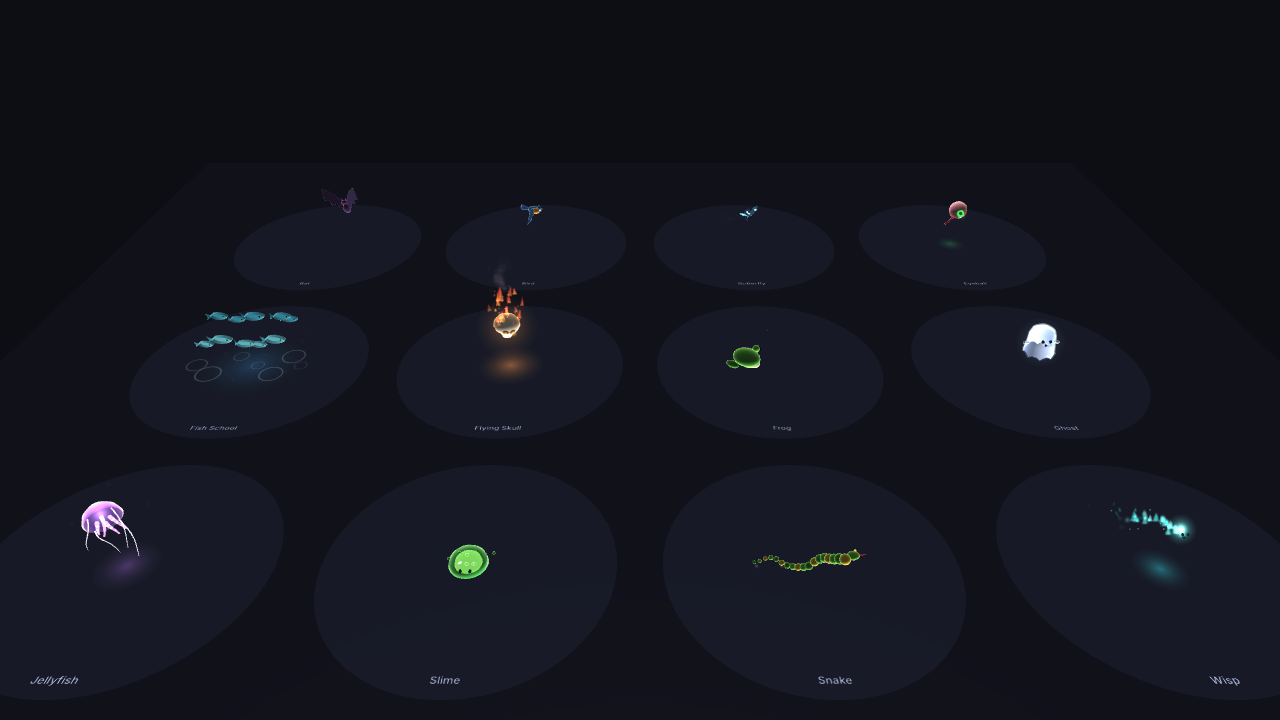
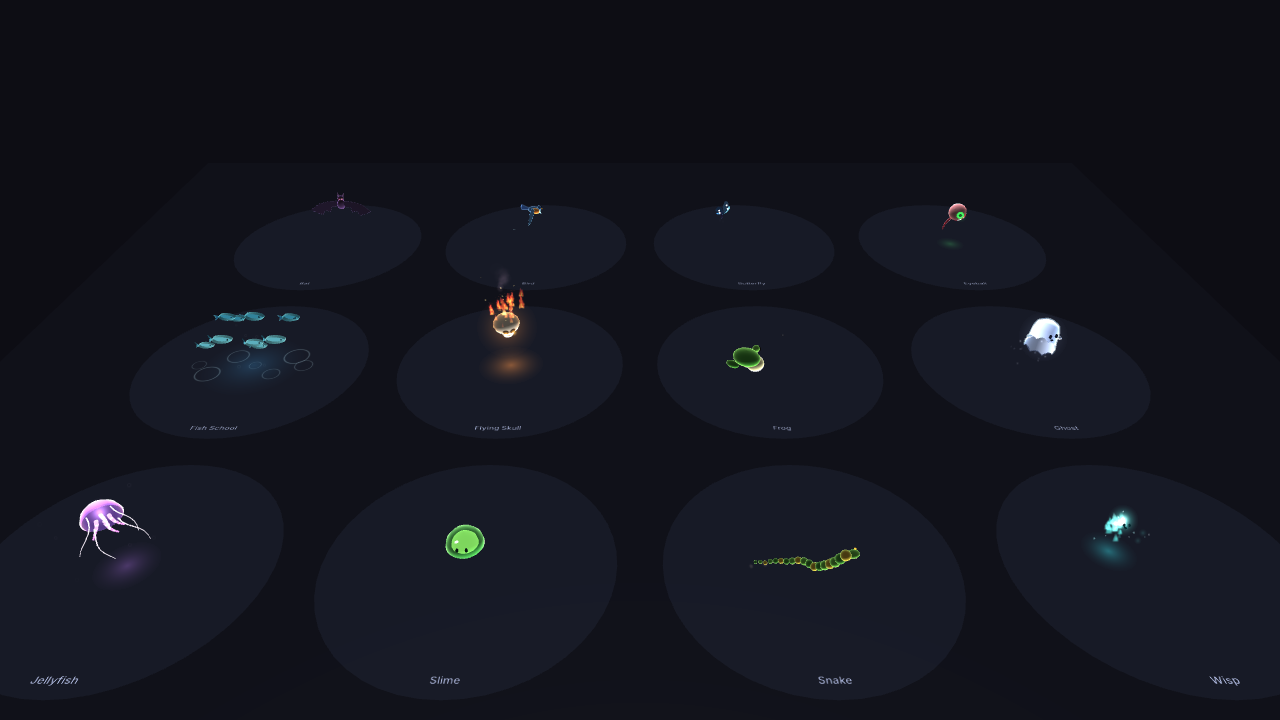
examples(pixelfx): fix review findings in the new categories
- Iris and star iris erode a screen-sized cover out of a distance mask instead of
  scaling frames that reached hundreds of metres and hid the whole gallery.
- Critter shadows take the cell's offset out of the world position they follow.
- Rising motes and bubbles use a narrow cone; floor rings drop the aim that
  cancelled their flat rotation.
- Slime droplets simulate in world space and the splat replays every loop.
- The meteor's smoke, the glitch slivers and the frog fly's glint stop when
  their source is gone; fliers are marked teleported when a loop restarts.
- Ground pound and the rocket's target turn whole turns instead of snapping;
  the plasma orb loops on whole cycles.

Claude-Session: https://claude.ai/code/session_01HtcrPuxAiPNH1fZ2MwUefJ

diff --git a/examples/src/pixelfx/transitions.ts b/examples/src/pixelfx/transitions.ts
@@ -336,19 +336,70 @@ function windowed(period: number, t0: number, t1: number, fade = 0.05): Array<[n
     return keys;
 }
 
-/** A nested pair of frames round a hole of `points`, scaled together so the hole can shut to a dot. */
-function iris(fx: FxBuilder, node: TransformNode, points: Array<[number, number]>, period: number, color = COVER) {
-    solid(fx, node, holeFrame(points, 24), color, {life: period, lit: false, order: 6});
-    solid(
-        fx,
-        node,
-        holeFrame(
-            points.map(([x, y]) => [x * 23.5, y * 23.5] as [number, number]),
-            30
-        ),
-        color,
-        {life: period, lit: false, order: 6}
-    );
+/** Distance from the origin to (x, y) in units of the closed outline `points` along that ray: 1 on the outline. */
+function shapeDistance(points: Array<[number, number]>): (x: number, y: number) => number {
+    return (x, y) => {
+        const rho = Math.hypot(x, y);
+        if (rho < 1e-9) return 0;
+        const dx = x / rho;
+        const dy = y / rho;
+        let reach = Infinity;
+        for (let i = 0; i < points.length; i++) {
+            const [ax, ay] = points[i];
+            const [bx, by] = points[(i + 1) % points.length];
+            const ex = bx - ax;
+            const ey = by - ay;
+            const den = dx * ey - dy * ex;
+            if (Math.abs(den) < 1e-12) continue;
+            const along = (ax * ey - ay * ex) / den;
+            const k = (ax * dy - ay * dx) / den;
+            if (along > 0 && k >= 0 && k <= 1) reach = Math.min(reach, along);
+        }
+        return reach === Infinity ? 0 : rho / reach;
+    };
+}
+
+/**
+ * The screen as one quad with a hole of `points` round `center`, `radius(t)` across, eroded out of
+ * a distance mask. Unlike a frame scaled with its hole, it never reaches past the screen.
+ */
+function irisCover(
+    fx: FxBuilder,
+    key: string,
+    center: At,
+    points: Array<[number, number]>,
+    period: number,
+    radius: (t: number) => number,
+    edge: [number, number, number]
+) {
+    const dist = shapeDistance(points);
+    const dx = center[0] - S[0];
+    const dy = center[1] - S[1];
+    let far = 0;
+    for (let i = 0; i <= 64; i++) {
+        const k = i / 64;
+        for (const [u, v] of [
+            [k, 0],
+            [k, 1],
+            [0, k],
+            [1, k],
+        ]) {
+            far = Math.max(far, dist((u - 0.5) * W - dx, (0.5 - v) * H - dy));
+        }
+    }
+    const alphas: Array<[number, number]> = [];
+    for (let i = 0; i <= 80; i++) {
+        const u = i / 80;
+        alphas.push([clamp01(1 - radius(u * period) / far), u]);
+    }
+    erodingCover(fx, {
+        period,
+        mask: mask(fx.scene, key, (u, v) => dist((u - 0.5) * W - dx, (0.5 - v) * H - dy) / far),
+        alphas,
+        edge,
+        edgeWidth: 0.015,
+        softness: 0.004,
+    });
 }
 
 export const transitions: FxDef[] = [
@@ -693,8 +744,8 @@ export const transitions: FxDef[] = [
                 });
                 return {node, i, lag: hash(i) * 0.35, freeze: hash(i + 9)};
             });
-            // Data slivers spat off the torn edges.
-            fx.sys({
+            // Data slivers spat off the torn edges, while there are edges on screen.
+            const slivers = fx.sys({
                 tex: 'white',
                 mode: RenderMode.StretchedBillBoard,
                 stretch: {speed: 0.06, length: 3},
@@ -709,6 +760,7 @@ export const transitions: FxDef[] = [
                 order: 9,
                 b: [tint([['#ffffff', 0]], popOut(0.4))],
             });
+            gate(slivers, P, 0.05, 1.75, 80);
             fx.every((t) => {
                 for (const b of bands) {
                     // In from the left in stutters, freezing and jerking back; then on through.
@@ -736,8 +788,18 @@ export const transitions: FxDef[] = [
             const P = 2.2;
             backdrop(fx, P);
             const C: At = [0, 1.6, S[2]];
+            const SHUT = 1.25;
+            const OPEN = 1.45;
+            // Closes onto the hero's head, holds as a spotlight, snaps shut, pops open.
+            const radius = (t: number) => {
+                if (t < 0.45) return 6 - 5.4 * easeOut(span(t, 0, 0.45));
+                if (t < 1.05) return 0.6 - 0.05 * Math.sin((t - 0.45) * 8);
+                if (t < SHUT) return 0.6 * (1 - easeIn(span(t, 1.05, SHUT)));
+                if (t < OPEN) return 0;
+                return 6 * easeOut(span(t, OPEN, P));
+            };
+            irisCover(fx, 'iris-circle', C, circle(1), P, radius, [1.6, 1.4, 1]);
             const ap = fx.node('iris', C);
-            iris(fx, ap, circle(1), P);
             const rim = fx.node('rim', [0, 0, 0.02], ap);
             solid(fx, rim, holeFrame(circle(0.98), 1.05), SPOT[6], {life: P, blend: 'add', lit: false});
             // The spotlight's dust.
@@ -766,8 +828,6 @@ export const transitions: FxDef[] = [
                 b: [tint([['#ffffff', 0]], popOut(0.5))],
             });
             gate(tw, P, 0.5, 1.1, 12);
-            const SHUT = 1.25;
-            const OPEN = 1.45;
             flash(fx, {at: [C[0], C[1], C[2] + 0.2], size: 1, time: SHUT, color: '#ffffff', life: 0.2});
             flash(fx, {at: [C[0], C[1], C[2] + 0.2], size: 3, time: OPEN, color: SPOT[6]});
             fx.sys({
@@ -785,15 +845,9 @@ export const transitions: FxDef[] = [
                 b: [gravity(4), tint([['#ffffff', 0]], popOut(0.4))],
             });
             fx.every((t) => {
-                // Closes onto the hero's head, holds as a spotlight, snaps shut, pops open.
-                let r: number;
-                if (t < 0.45) r = 6 - 5.4 * easeOut(span(t, 0, 0.45));
-                else if (t < 1.05) r = 0.6 - 0.05 * Math.sin((t - 0.45) * 8);
-                else if (t < SHUT) r = 0.6 * (1 - easeIn(span(t, 1.05, SHUT)));
-                else if (t < OPEN) r = 0;
-                else r = 6 * easeOut(span(t, OPEN, P));
-                ap.scaling.setAll(Math.max(0.004, r));
-                ap.rotation.z = t * 0.3;
+                // The rim rides the hole while it is on screen.
+                const r = radius(t);
+                ap.scaling.setAll(r > 1.2 ? HIDE : Math.max(0.004, r));
             });
         },
     },
@@ -1088,9 +1142,18 @@ export const transitions: FxDef[] = [
             const P = 2.2;
             backdrop(fx, P);
             const C: At = [0, 1.45, S[2]];
-            const ap = fx.node('star', C);
             const STAR = starPoints(1, 0.42);
-            iris(fx, ap, STAR, P);
+            const SHUT = 1.3;
+            const OPEN = 1.5;
+            const radius = (t: number) => {
+                if (t < 0.5) return 7 - 6.2 * easeOut(span(t, 0, 0.5));
+                if (t < 1.1) return 0.8 - 0.06 * Math.sin((t - 0.5) * 8);
+                if (t < SHUT) return 0.8 * (1 - easeIn(span(t, 1.1, SHUT)));
+                if (t < OPEN) return 0;
+                return 7 * easeOut(span(t, OPEN, P));
+            };
+            irisCover(fx, 'iris-star', C, STAR, P, radius, [1.8, 1.4, 0.6]);
+            const ap = fx.node('star', C);
             const rim = fx.node('rim', [0, 0, 0.02], ap);
             solid(fx, rim, holeFrame(STAR, 1.07), GOLD[5], {life: P, blend: 'add', lit: false});
             // Tips twinkling and shedding motes.
@@ -1124,8 +1187,6 @@ export const transitions: FxDef[] = [
                 });
                 gate(m, P, 0.2, 1.3, 14);
             }
-            const SHUT = 1.3;
-            const OPEN = 1.5;
             flash(fx, {at: [C[0], C[1], C[2] + 0.2], size: 1, time: SHUT, color: '#ffffff', life: 0.2});
             flash(fx, {at: [C[0], C[1], C[2] + 0.2], size: 3.4, time: OPEN, color: GOLD[6]});
             shockwave(fx, {
@@ -1138,15 +1199,9 @@ export const transitions: FxDef[] = [
                 delay: OPEN,
             });
             fx.every((t) => {
-                let r: number;
-                if (t < 0.5) r = 7 - 6.2 * easeOut(span(t, 0, 0.5));
-                else if (t < 1.1) r = 0.8 - 0.06 * Math.sin((t - 0.5) * 8);
-                else if (t < SHUT) r = 0.8 * (1 - easeIn(span(t, 1.1, SHUT)));
-                else if (t < OPEN) r = 0;
-                else r = 7 * easeOut(span(t, OPEN, P));
-                ap.scaling.setAll(Math.max(0.004, r));
-                ap.rotation.z = t < OPEN ? t * 2.2 : OPEN * 2.2 - (t - OPEN) * 3;
-                tips.scaling.setAll(1);
+                // The gold rim and its tips ride the hole while it is on screen.
+                const r = radius(t);
+                ap.scaling.setAll(r > 1.2 ? HIDE : Math.max(0.004, r));
             });
         },
     },

diff --git a/examples/src/pixelfx/moves.ts b/examples/src/pixelfx/moves.ts
@@ -11,6 +11,7 @@ import {
     popOut,
     spike,
     spin,
+    teleported,
     tint,
     type Geometry,
 } from './kit';
@@ -207,9 +208,13 @@ function arcPoint(a: At, b: At, k: number, lift: number): At {
 /** A node flying from `a` to `b` between `t0` and `t1`, hidden before and after. */
 function flier(fx: FxBuilder, a: At, b: At, t0: number, t1: number, lift = 0, ease = (k: number) => k): TransformNode {
     const node = fx.node('flier', a);
+    let last = 0;
     fx.every((t) => {
         const k = ease(span(t, t0, t1));
         node.position.set(...arcPoint(a, b, k, lift));
+        // Back from the target to the start on a new loop: a jump, not a flight to fill with particles.
+        if (t < last) teleported(node);
+        last = t;
         node.scaling.setAll(t >= t0 && t <= t1 ? 1 : HIDE);
     });
     return node;
@@ -500,7 +505,6 @@ export const moves: FxDef[] = [
                 speed: [1, 2.5],
                 color: '#8a7a68',
                 shape: new CircleEmitter({radius: 0.3, thickness: 1}),
-                aim: 'up',
                 rotate: [Math.PI / 2, 0, 0],
             });
             shockwave(fx, {at: [LEFT + 0.2, 0.04, 0], size: 2.4, life: 0.4, color: '#c8b090', delay: STOMP});
@@ -549,7 +553,6 @@ export const moves: FxDef[] = [
                 speed: [1.5, 3],
                 color: '#8a7a68',
                 shape: new CircleEmitter({radius: 0.4, thickness: 1}),
-                aim: 'up',
                 rotate: [Math.PI / 2, 0, 0],
             });
             hitFlash(fx, foe, P, [RISE], '#ffe0a0', 0.6);
@@ -747,7 +750,6 @@ export const moves: FxDef[] = [
                 speed: [2, 4],
                 color: '#8a7a68',
                 shape: new CircleEmitter({radius: 0.5, thickness: 1}),
-                aim: 'up',
                 rotate: [Math.PI / 2, 0, 0],
             });
             hotSparks(fx, {
@@ -774,7 +776,7 @@ export const moves: FxDef[] = [
                     1 - coil * 0.25 - land * 0.3 + (t > JUMP && t < LAND ? 0.15 : 0),
                     1
                 );
-                me.body.rotation.z = t > JUMP && t < 1.05 ? -(t - JUMP) * 4 : 0;
+                me.body.rotation.z = -Math.PI * 2 * span(t, JUMP, 1.05); // One full flip over the top.
                 // Thrown about as the shock wave passes.
                 const air = span(t, passes, passes + 0.6);
                 foe.root.position.set(RIGHT + air * 0.6, Math.sin(air * Math.PI) * 0.9 * (air < 1 ? 1 : 0), 0);
@@ -884,7 +886,7 @@ export const moves: FxDef[] = [
                 size: [0.12, 0.22],
                 rate: 14,
                 color: GOLD[6],
-                shape: new CircleEmitter({radius: 0.6, thickness: 1}),
+                shape: new ConeEmitter({radius: 0.6, angle: 0.1, thickness: 1}),
                 aim: 'up',
                 at: [RIGHT, 0.2, 0],
                 order: 8,
@@ -1209,7 +1211,7 @@ export const moves: FxDef[] = [
                 size: [0.06, 0.12],
                 rate: 30,
                 color: [ARC[5], ARC[7]],
-                shape: new CircleEmitter({radius: 1.1, thickness: 0.1}),
+                shape: new ConeEmitter({radius: 1.1, angle: 0.1, thickness: 0.1}),
                 aim: 'up',
                 at: [LEFT, 0.05, 0],
                 order: 6,
@@ -1260,7 +1262,7 @@ export const moves: FxDef[] = [
                 order: 5,
                 b: [tint(PALETTE.fire, fadeOut(0.2, 0)), grow([0, 1], [1, 0.3])],
             });
-            smoke(fx, {
+            const trail = smoke(fx, {
                 at: [0, 0, 0],
                 parent: rock,
                 rate: 20,
@@ -1270,6 +1272,7 @@ export const moves: FxDef[] = [
                 alpha: 0.6,
                 life: [0.8, 1.2],
             });
+            gate(trail, P, POINT, HIT, 20);
             // The impact flattens the scene.
             flash(fx, {at: [RIGHT, 1, 0.5], size: 9, time: HIT, color: '#fff3a6'});
             shockwave(fx, {at: [RIGHT, 0.05, 0], size: 9, life: 0.7, color: '#ffc23d', delay: HIT});
@@ -1602,7 +1605,7 @@ export const moves: FxDef[] = [
                 // Thrown up and back.
                 const air = span(t, HIT, HIT + 1);
                 foe.root.position.set(RIGHT + 0.6 + air * 1.4, Math.sin(air * Math.PI) * 1.6 * (air < 1 ? 1 : 0), 0);
-                foe.body.rotation.z = -air * Math.PI * 1.5 * (air < 1 ? 1 : 0);
+                foe.body.rotation.z = -air * Math.PI * 2;
             });
         },
     },
@@ -1698,7 +1701,6 @@ export const moves: FxDef[] = [
                 speed: [1.5, 3],
                 color: '#8a7a68',
                 shape: new CircleEmitter({radius: 0.3, thickness: 1}),
-                aim: 'up',
                 rotate: [Math.PI / 2, 0, 0],
             });
             clods(fx, {

diff --git a/examples/src/pixelfx/critters.ts b/examples/src/pixelfx/critters.ts
@@ -132,9 +132,11 @@ function shadow(fx: FxBuilder, follow: TransformNode, size: number, life: number
         look: {scalingMode: 'hierarchy'},
     });
     fx.every(() => {
+        // The shadow node lives under the cell's root, so take the root's own offset back out.
         const p = follow.getAbsolutePosition();
-        node.position.set(p.x, 0.012, p.z);
-        const k = Math.max(0.3, 1 - (p.y - base) * 0.25);
+        const o = fx.root.getAbsolutePosition();
+        node.position.set(p.x - o.x, 0.012, p.z - o.z);
+        const k = Math.max(0.3, 1 - (p.y - o.y - base) * 0.25);
         node.scaling.set(k, 1, k);
     });
     return node;
@@ -642,7 +644,7 @@ export const critters: FxDef[] = [
                 rate: 6,
                 color: SEA[6],
                 alpha: 0.7,
-                shape: new CircleEmitter({radius: 1.6, thickness: 1}),
+                shape: new ConeEmitter({radius: 1.6, angle: 0.1, thickness: 1}),
                 aim: 'up',
                 at: [0, 0.3, 0],
                 order: 7,
@@ -828,6 +830,7 @@ export const critters: FxDef[] = [
             fx.sys({
                 tex: 'glint',
                 life: L,
+                look: {scalingMode: 'hierarchy'},
                 size: 0.12,
                 burst: [[0, 1]],
                 color: '#c8e0ff',
@@ -849,7 +852,6 @@ export const critters: FxDef[] = [
                 color: '#6a5a50',
                 alpha: 0.6,
                 shape: new CircleEmitter({radius: 0.3, thickness: 1}),
-                aim: 'up',
                 rotate: [Math.PI / 2, 0, 0],
                 at: [0.9, 0.05, 0],
                 order: 4,
@@ -1164,6 +1166,7 @@ export const critters: FxDef[] = [
                 speed: [1.5, 2.5],
                 size: [0.06, 0.1],
                 burst: [[1.22, 10]],
+                world: true,
                 color: SLIME[4],
                 shape: new ConeEmitter({radius: 0.3, angle: 1.2, thickness: 1}),
                 aim: 'up',
@@ -1180,6 +1183,7 @@ export const critters: FxDef[] = [
                 life: 0.6,
                 delay: 1.22,
                 blend: 'add',
+                loop: true,
             });
             fx.every((t) => {
                 // Wind-up squash, stretch into the jump, round in the air, splat, wobble.

diff --git a/examples/src/pixelfx/fusion.ts b/examples/src/pixelfx/fusion.ts
@@ -435,11 +435,11 @@ export const fusion: FxDef[] = [
             fx.every((t) => {
                 const bob = Math.sin((t / P) * Math.PI * 2) * 0.06;
                 orb.position.y = 1.7 + bob;
-                const pulse = 1 + 0.04 * Math.sin(t * 13) + (t > ZAP && t < ZAP + 0.25 ? 0.12 : 0);
+                const pulse = 1 + 0.04 * Math.sin(((Math.PI * 2 * 6) / P) * t) + (t > ZAP && t < ZAP + 0.25 ? 0.12 : 0);
                 orb.scaling.setAll(pulse);
                 tips.forEach((tip, i) => {
-                    const a = t * (1.7 + i * 0.6) + i * 2.1;
-                    const b = Math.sin(t * (1.1 + i * 0.4) + i) * 1.2;
+                    const a = ((Math.PI * 2 * (1 + i)) / P) * t + i * 2.1;
+                    const b = Math.sin(((Math.PI * 2 * (2 - (i % 2))) / P) * t + i) * 1.2;
                     tip.position.set(
                         Math.cos(a) * Math.cos(b) * 0.38,
                         Math.sin(b) * 0.38,

diff --git a/examples/src/pixelfx/pickups.ts b/examples/src/pixelfx/pickups.ts
@@ -1131,7 +1131,7 @@ export const pickups: FxDef[] = [
                 size: [0.06, 0.12],
                 rate: 22,
                 color: [EPIC[5], '#ffffff'],
-                shape: new CircleEmitter({radius: 0.5, thickness: 1}),
+                shape: new ConeEmitter({radius: 0.5, angle: 0.1, thickness: 1}),
                 aim: 'up',
                 at: [0, 0.1, 0],
                 order: 6,
@@ -1245,7 +1245,7 @@ export const pickups: FxDef[] = [
                 size: [0.05, 0.09],
                 rate: 9,
                 color: MAGENTA[6],
-                shape: new CircleEmitter({radius: 0.2, thickness: 1}),
+                shape: new ConeEmitter({radius: 0.2, angle: 0.1, thickness: 1}),
                 aim: 'up',
                 at: [0, -0.3, 0],
                 parent: flask,
